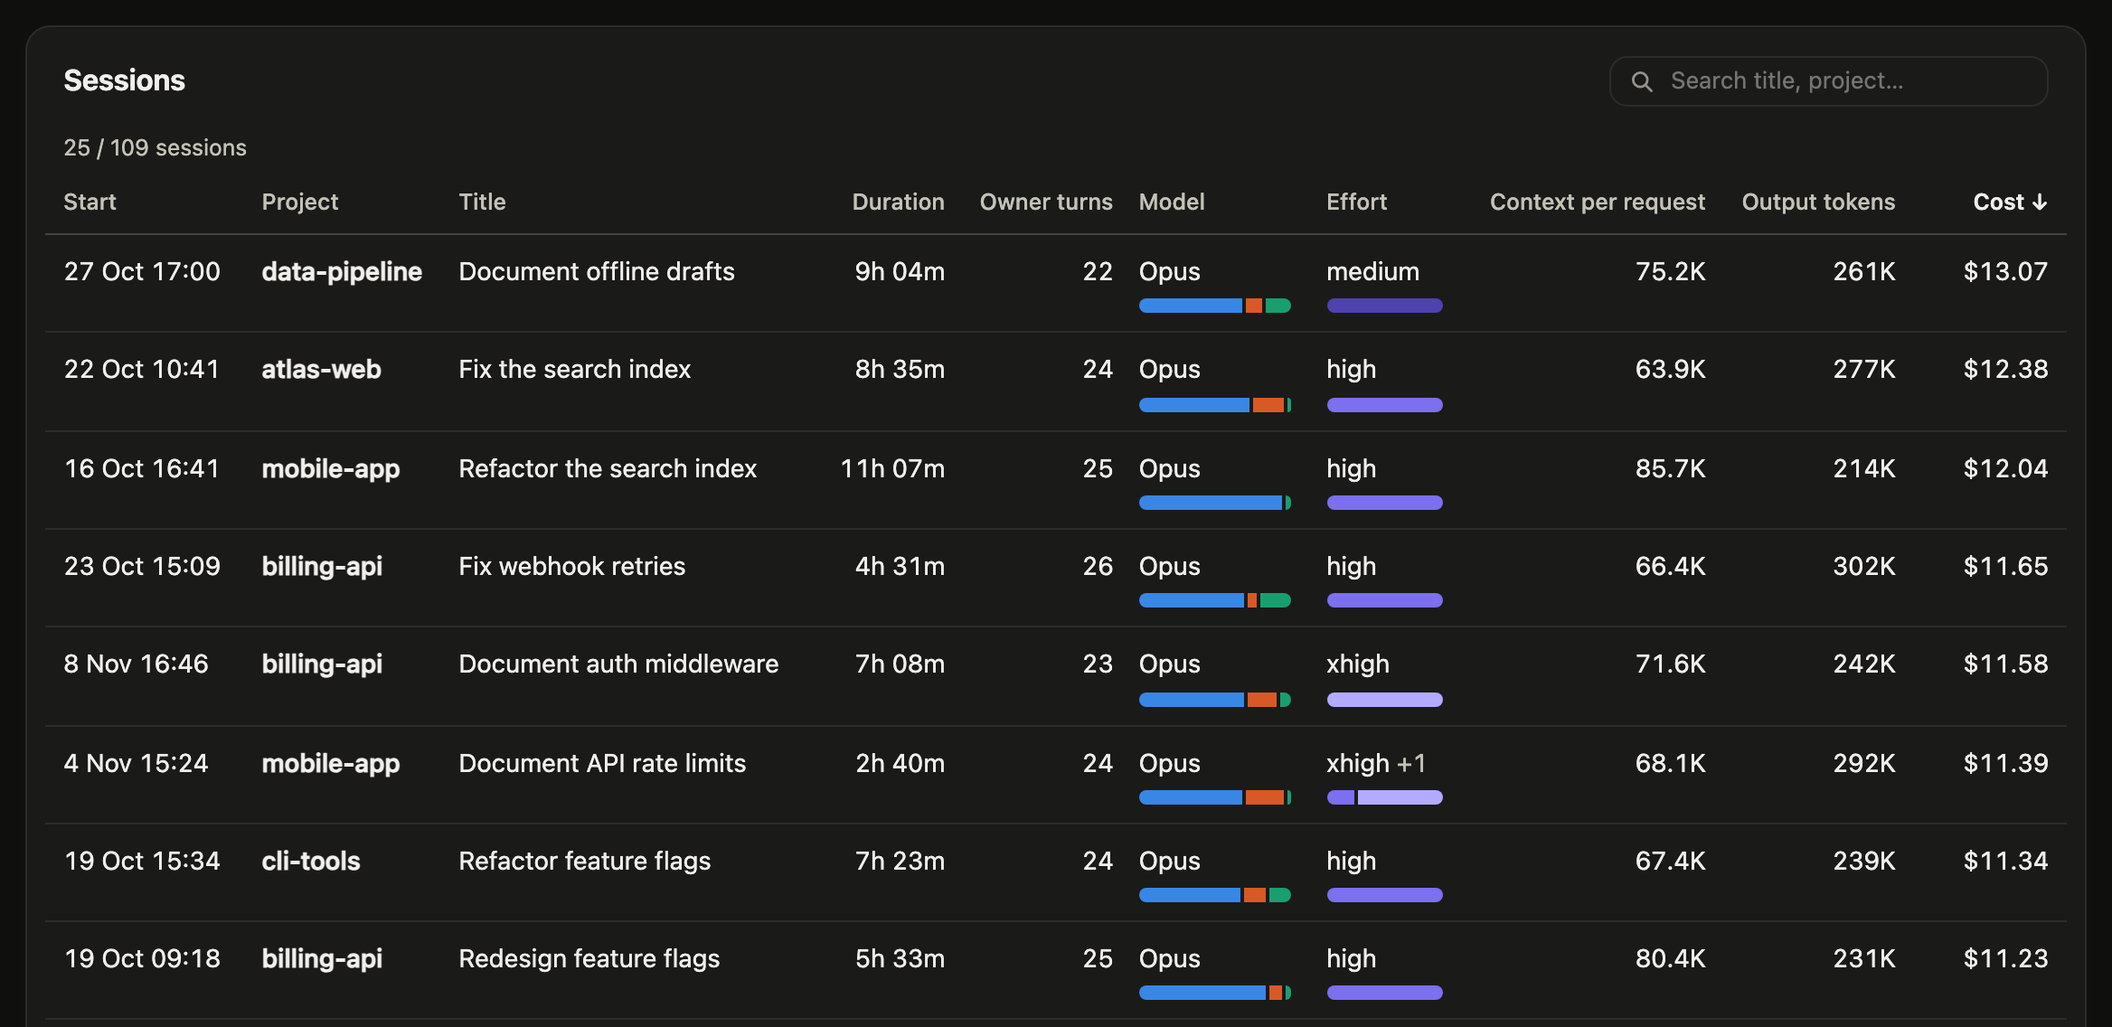
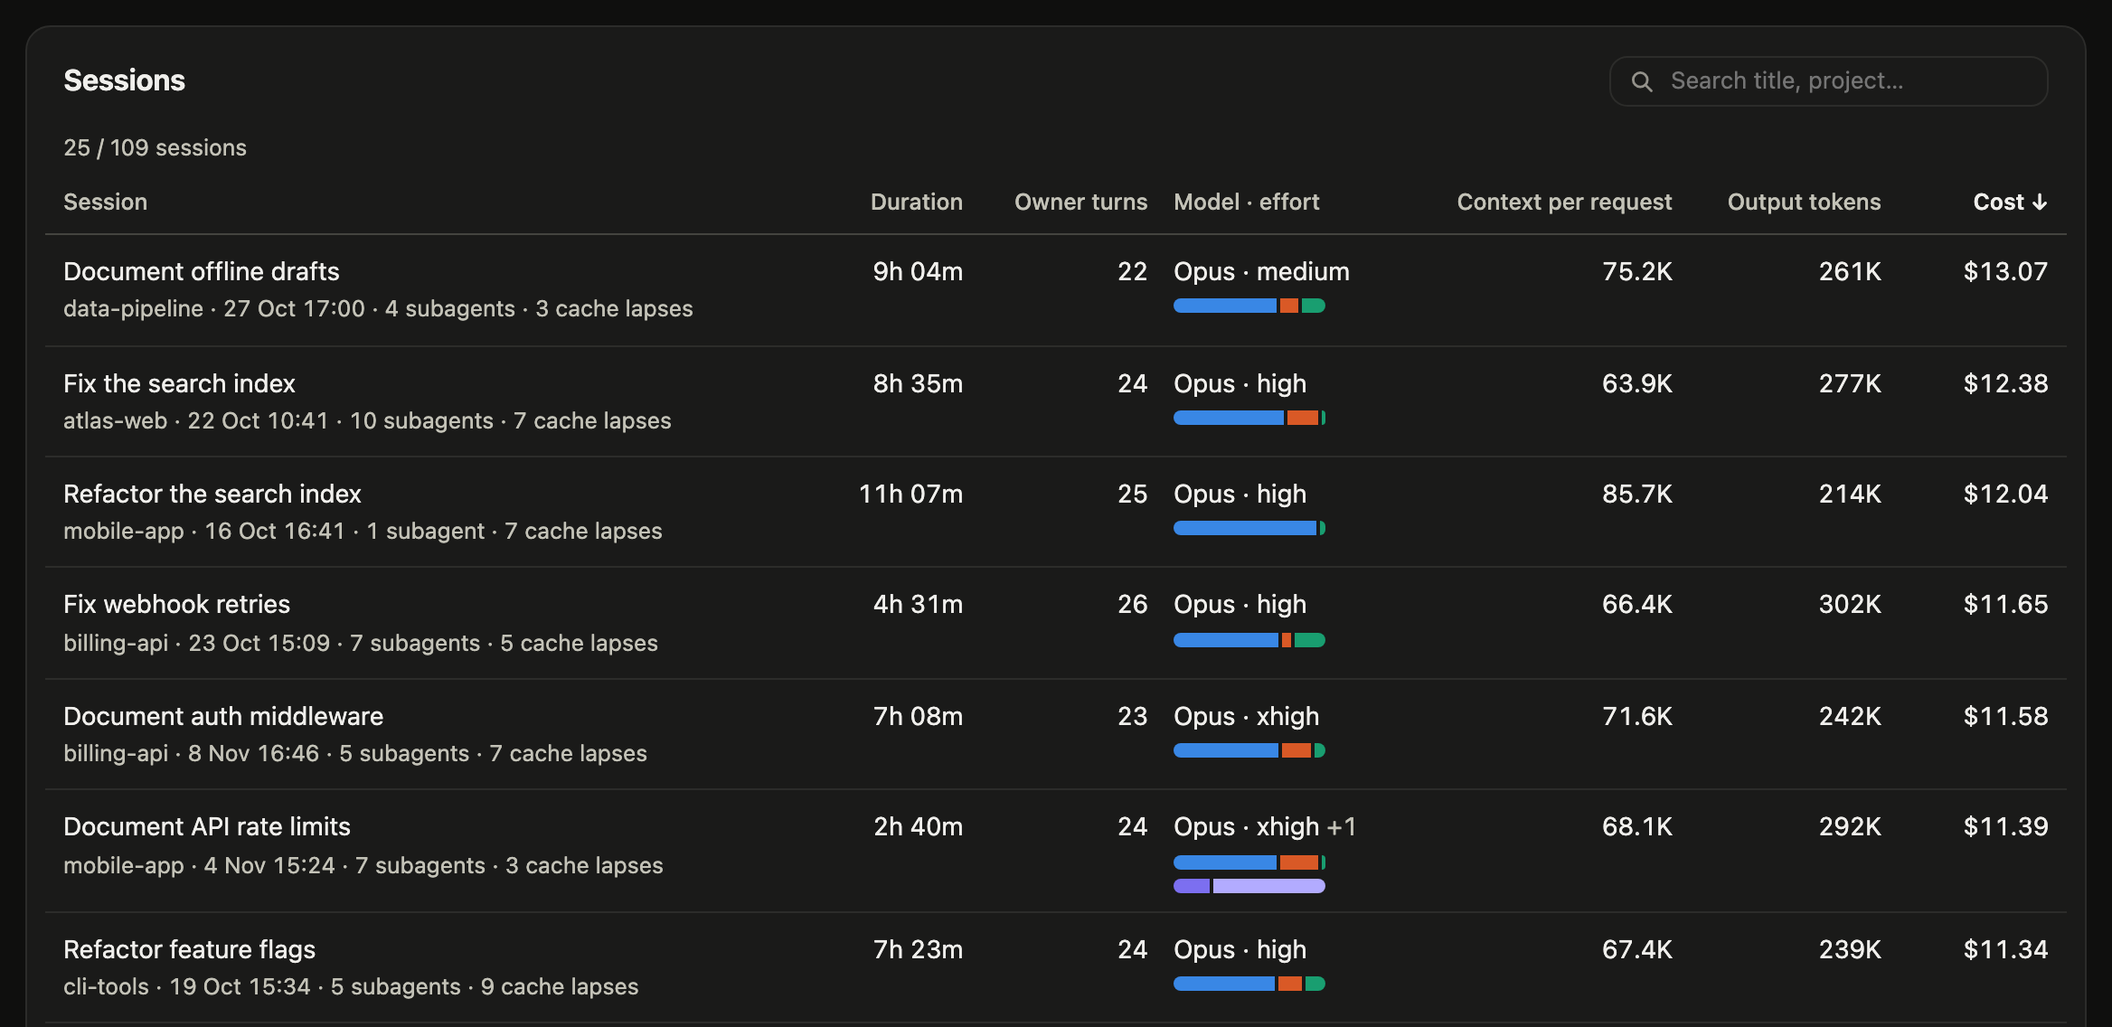
feat(dashboard): fit the Sessions table without horizontal scroll
Seven columns instead of thirteen. The session cell holds the title,
then project, start and any subagents or cache lapses. Model and effort
share a column, and their bars show only when a session mixed models or
changed effort. A one-day window shows only the start time.

Closes #10

diff --git a/dashboard/src/i18n.tsx b/dashboard/src/i18n.tsx
@@ -8,7 +8,7 @@ export const T = {
     requests: "Request", input: "Input", thinking: "Thinking", cacheRead: "Cache đọc", cacheWrite: "Cache ghi", share: "Tỷ trọng", allEfforts: "Mọi effort", effShare: "Mỗi mức effort chiếm bao nhiêu", leadMore: (n: string, q: string, c: string) => <><b>{n}</b> chiếm {q} số request nhưng tới <b>{c}</b> chi phí.</>, leadLess: (n: string, q: string, c: string) => <><b>{n}</b> chiếm {q} số request và chỉ {c} chi phí.</>, price: "Output mỗi request theo mức effort", perReq: "/ request", costShare: "Tỷ trọng chi phí", subEffort: "Effort của subagent", switches: "Các phiên đã đổi effort", nSwitch: "Lần đổi", effort: "Effort", subTypes: "Subagent theo loại", count: "Số lần", ranOn: "Chạy trên",
     rebuilt: "Cache bị dựng lại", rbIdle: "Sau khi nghỉ", rbCompaction: "Khi nén context", rbOther: "Khác", rbStart: "Đầu phiên", rbIdleTip: "quay lại sau khi cache hết hạn (5 phút, hoặc 1 giờ nếu dùng cache 1h). Đây là phần tránh được.", rbCompactionTip: "context vừa được nén nên phải ghi lại.", rbOtherTip: "phần đầu prompt đổi mà transcript không cho biết lý do.", rbStartTip: "request đầu của phiên hoặc subagent, không tránh được.",
     rbInfo: "Mỗi request đọc lại cuộc trò chuyện từ prompt cache với giá rẻ. Khi cache mất, request đó phải ghi lại gần hết context vào cache, đắt gấp 25–40 lần đọc. Bảng đếm các lần ghi lại theo nguyên nhân; chi phí thêm là phần trả hơn so với chỉ đọc.", howToRead: "Cách đọc",
-    rbTokens: "Token ghi lại", rbExtra: "Chi phí thêm", gapShort: "5–15 phút", gapMid: "15–60 phút", gapLong: "Trên 1 giờ", idleGap: "Đã nghỉ bao lâu trước lần dựng lại", lapses: "Cache hết hạn",
+    rbTokens: "Token ghi lại", rbExtra: "Chi phí thêm", gapShort: "5–15 phút", gapMid: "15–60 phút", gapLong: "Trên 1 giờ", idleGap: "Đã nghỉ bao lâu trước lần dựng lại", lapses: "Cache hết hạn", session: "Phiên", modelEffort: "Model · effort", nSubs: (n: number) => `${n} subagent`, nLapses: (n: number) => `${n} lần cache hết hạn`,
     tools: "Công cụ được gọi", calls: "lượt", skills: "Skill được dùng", uses: "lượt", skillCount: "skill", skillTyped: "Gõ lệnh /", skillAgent: "Agent tự gọi", lastUsed: "Dùng gần nhất", showFewer: "Thu gọn", srcProject: "Project", srcPersonal: "Cá nhân", srcPlugin: "Plugin", srcBuiltin: "Có sẵn", srcOther: "Khác", errors: "lỗi", time: "Thời gian agent làm việc", linesAR: "Dòng code thêm / xoá", api: "Chờ model", tool: "Chạy công cụ", idle: "Chờ owner, nghỉ", lines: "Dòng code thêm và xoá", added: "Thêm", removed: "Xoá", compactions: "Lần nén context", ownerTurns: "Lượt owner",
     lastActive: "Lần cuối", whereMoney: "Tiền đi vào model nào", ctxPerReq: "Context / request", costKinds: "Chi phí gồm", kRead: "Đọc context", kWrite: "Ghi cache", kOut: "Output", kRest: "Không tách được", splitModel: "Theo model", splitKind: "Theo loại chi phí", costByKind: "Chi phí theo loại", figures: "Bảng số liệu", mainVsSub: "Luồng chính và subagent", mainThread: "Luồng chính", routedTitle: "Subagent chạy trên model nào", spawnedOn: (p: string, m: string) => `${p} → ${m}`, costNotes: "Chi phí chưa chắc chắn", stUnknown: "không có bản ghi", stPartial: "chưa đủ", stEst: "ước tính", moreSess: (n: number) => `và ${n} phiên khác`, priceOff: (n: string, d: string) => `lệch bảng giá ở ${n} phiên, từ ${d}`, noPrice: "chưa có giá", costPerSess: "Chi phí mỗi phiên", avgDur: "Thời lượng mỗi phiên", turnsPerSess: "Lượt owner mỗi phiên", compactPerSess: "Nén context mỗi phiên", costPerKLines: "Chi phí mỗi 1.000 dòng code", allProj: "Mọi dự án", shareBy: "Phần của mỗi dự án",
     nodata: "Không có dữ liệu trong khoảng lọc này.", wd: ["T2", "T3", "T4", "T5", "T6", "T7", "CN"], wdShort: ["T2", "T3", "T4", "T5", "T6", "T7", "CN"], theme: "Đổi sáng/tối",
@@ -22,7 +22,7 @@ export const T = {
     requests: "Requests", input: "Input", thinking: "Thinking", cacheRead: "Cache read", cacheWrite: "Cache write", share: "Share", allEfforts: "All efforts", effShare: "How much each effort level takes", leadMore: (n: string, q: string, c: string) => <><b>{n}</b> is {q} of requests but <b>{c}</b> of cost.</>, leadLess: (n: string, q: string, c: string) => <><b>{n}</b> is {q} of requests and only {c} of cost.</>, price: "Output per request by effort level", perReq: "/ request", costShare: "Share of cost", subEffort: "Subagent effort", switches: "Sessions that changed effort", nSwitch: "Changes", effort: "Effort", subTypes: "Subagents by type", count: "Count", ranOn: "Ran on",
     rebuilt: "Cache rebuilt", rbIdle: "After idle", rbCompaction: "At compaction", rbOther: "Other", rbStart: "At session start", rbIdleTip: "returned after the cache expired (5 minutes, or 1 hour with 1h cache). The avoidable part.", rbCompactionTip: "the context was just compacted.", rbOtherTip: "the start of the prompt changed for a reason the transcript does not show.", rbStartTip: "the first request of a session or subagent, unavoidable.",
     rbInfo: "Each request rereads the conversation from the prompt cache at a low price. When the cache is gone, the request writes most of the context into it again, at 25–40 times the read price. The table counts these rewrites by cause; extra cost is what they cost beyond a read.", howToRead: "How to read",
-    rbTokens: "Rewritten tokens", rbExtra: "Extra cost", gapShort: "5–15 min", gapMid: "15–60 min", gapLong: "Over 1 h", idleGap: "Idle time before the rebuild", lapses: "Cache lapses",
+    rbTokens: "Rewritten tokens", rbExtra: "Extra cost", gapShort: "5–15 min", gapMid: "15–60 min", gapLong: "Over 1 h", idleGap: "Idle time before the rebuild", lapses: "Cache lapses", session: "Session", modelEffort: "Model · effort", nSubs: (n: number) => `${n} subagent${n === 1 ? "" : "s"}`, nLapses: (n: number) => `${n} cache lapse${n === 1 ? "" : "s"}`,
     tools: "Tool calls", calls: "calls", skills: "Skills used", uses: "uses", skillCount: "skills", skillTyped: "Typed as /command", skillAgent: "Called by the agent", lastUsed: "Last used", showFewer: "Show fewer", srcProject: "Project", srcPersonal: "Personal", srcPlugin: "Plugin", srcBuiltin: "Built-in", srcOther: "Other", errors: "errors", time: "Agent working time", linesAR: "Lines added / removed", api: "Waiting for the model", tool: "Running tools", idle: "Idle, waiting for the owner", lines: "Lines added and removed", added: "Added", removed: "Removed", compactions: "Compactions", ownerTurns: "Owner turns",
     lastActive: "Last active", whereMoney: "Which model the money goes to", ctxPerReq: "Context per request", costKinds: "Cost made of", kRead: "Reading context", kWrite: "Cache writes", kOut: "Output", kRest: "Not split", splitModel: "By model", splitKind: "By cost kind", costByKind: "Cost by kind", figures: "Figures", mainVsSub: "Main thread and subagents", mainThread: "Main thread", routedTitle: "Which model subagents ran on", spawnedOn: (p: string, m: string) => `${p} → ${m}`, costNotes: "Cost not certain", stUnknown: "no record", stPartial: "incomplete", stEst: "estimated", moreSess: (n: number) => `and ${n} more sessions`, priceOff: (n: string, d: string) => `off the price table in ${n} sessions since ${d}`, noPrice: "no price", costPerSess: "Cost per session", avgDur: "Length per session", turnsPerSess: "Owner turns per session", compactPerSess: "Compactions per session", costPerKLines: "Cost per 1,000 lines", allProj: "All projects", shareBy: "Each project's share",
     nodata: "No data in this filter range.", wd: ["Mon", "Tue", "Wed", "Thu", "Fri", "Sat", "Sun"], wdShort: ["Mo", "Tu", "We", "Th", "Fr", "Sa", "Su"], theme: "Toggle light/dark",

diff --git a/dashboard/src/views/Sessions.tsx b/dashboard/src/views/Sessions.tsx
@@ -5,44 +5,48 @@ import { Search } from "../controls/Search.tsx";
 import { CostCell, SessionMix, RunsStrip, Title } from "../ui.tsx";
 
 export function Sessions({ F }: { F: Fact[] }) {
-  const { M, S, t, f, set, limit, more } = useDash();
+  const { M, S, t, L, f, filter, set, limit, more } = useDash();
   const SORT: Record<SortKey, (r: SessionRow) => string | number> = {
-    start: (r) => r.x.day + String(r.x.hour).padStart(2, "0") + String(r.x.min).padStart(2, "0"), project: (r) => M.projects[r.x.p].toLowerCase(),
-    dur: (r) => r.x.dur, turns: (r) => r.x.owner, out: (r) => r.o, cost: (r) => r.c, tps: (r) => r.x.out / r.x.api, subs: (r) => r.x.subs.length, lapses: (r) => r.lapses, ctx: (r) => r.ctx,
+    start: (r) => r.x.day + String(r.x.hour).padStart(2, "0") + String(r.x.min).padStart(2, "0"),
+    dur: (r) => r.x.dur, turns: (r) => r.x.owner, out: (r) => r.o, cost: (r) => r.c, ctx: (r) => r.ctx,
   };
   const q = S.q.trim().toLowerCase();
   const rows = sessionRows(M, F).filter((r) => !q || (r.x.title + " " + M.projects[r.x.p]).toLowerCase().includes(q));
   const key = SORT[S.sort];
   rows.sort((a, b) => (key(a) < key(b) ? -1 : key(a) > key(b) ? 1 : 0) * S.dir);
-  const sort = (k: SortKey) => set(S.sort === k ? { dir: S.dir === 1 ? -1 : 1 } : { sort: k, dir: k === "project" ? 1 : -1 });
+  const sort = (k: SortKey) => set(S.sort === k ? { dir: S.dir === 1 ? -1 : 1 } : { sort: k, dir: -1 });
   const th = (k: SortKey, label: string, cls = "") => (
     <th className={cls} aria-sort={S.sort === k ? (S.dir > 0 ? "ascending" : "descending") : undefined}>
       <button onClick={() => sort(k)}>{label}{S.sort === k ? (S.dir > 0 ? " ↑" : " ↓") : ""}</button>
     </th>
   );
+  // A one-day window shows only the time each session started.
+  const when = (r: SessionRow) => filter.from === filter.to ? `${String(r.x.hour).padStart(2, "0")}:${String(r.x.min).padStart(2, "0")}` : f.startText(r.x);
   return (
     <section className="card">
       <header><h2>{t("sessions")}</h2><Search value={S.q} placeholder={t("search")} clearLabel={t("clear")} onChange={(q) => set({ q }, { replace: true })} /></header>
       <p className="hint" style={{ margin: "0 0 12px" }}>{f.int(Math.min(limit, rows.length))} / {f.int(rows.length)} {t("shown")}</p>
-      <div className="scroll"><table className="wraphead">
-        <thead><tr>{th("start", t("start"), "o1")}{th("project", t("project"), "o1")}<th>{t("title")}</th>{th("dur", t("dur"), "num o1")}{th("turns", t("turns"), "num o2")}<th className="o1">{t("model")}</th><th className="o2">{t("effort")}</th>{th("subs", t("subs"), "num o3")}{th("lapses", t("lapses"), "num o3")}{th("ctx", t("ctxPerReq"), "num o2")}{th("tps", t("tps"), "num o3")}{th("out", t("out"), "num")}{th("cost", t("cost"), "num")}</tr></thead>
+      <div className="scroll"><table className="wraphead sesstable">
+        <thead><tr>{th("start", t("session"))}{th("dur", t("dur"), "num o1")}{th("turns", t("turns"), "num o2")}<th className="o1">{t("modelEffort")}</th>{th("ctx", t("ctxPerReq"), "num o2")}{th("out", t("out"), "num")}{th("cost", t("cost"), "num")}</tr></thead>
         <tbody>{rows.length ? rows.slice(0, limit).map((r) => (
           <tr key={r.s}>
-            <td className="o1">{f.startText(r.x)}</td>
-            <th className="name o1">{M.projects[r.x.p]}</th>
-            <td><Title title={r.x.title} /><span className="sub ph">{f.startText(r.x)} · {M.projects[r.x.p]}</span></td>
+            <td>
+              <Title title={r.x.title} />
+              <span className="sub">{[M.projects[r.x.p], when(r), r.x.subs.length ? L.nSubs(r.x.subs.length) : "", r.lapses ? L.nLapses(r.lapses) : ""].filter(Boolean).map((p, k) => <span key={k}>{k ? " · " : ""}<span className="nw">{p}</span></span>)}</span>
+            </td>
             <td className="num o1">{f.dur(r.x.dur)}</td>
             <td className="num o2">{r.x.owner}</td>
-            <td className="o1">{M.models[r.x.parent] ?? ""}<SessionMix r={r} /></td>
-            <td className="o2">{r.x.runs.length ? <>{M.efforts[mainLevel(r.x.runs)]}{r.x.runs.length > 1 ? <> <span className="x1">+{r.x.runs.length - 1}</span></> : null}<RunsStrip runs={r.x.runs} /></> : "—"}</td>
-            <td className="num o3">{r.x.subs.length || "—"}</td>
-            <td className="num o3">{r.lapses || "—"}</td>
+            <td className="o1">
+              {M.models[r.x.parent] ?? ""}
+              {r.x.runs.length ? <> · {M.efforts[mainLevel(r.x.runs)]}{r.x.runs.length > 1 ? <> <span className="x1">+{r.x.runs.length - 1}</span></> : null}</> : null}
+              <SessionMix r={r} />
+              {r.x.runs.length > 1 ? <RunsStrip runs={r.x.runs} /> : null}
+            </td>
             <td className="num o2">{r.q ? f.cmp(r.ctx) : "—"}</td>
-            <td className="num o3">{r.x.api ? f.int(r.x.out / r.x.api) : "—"}</td>
             <td className="num">{f.cmp(r.o)}</td>
             <td className="num"><CostCell r={r} /></td>
           </tr>
-        )) : <tr><td colSpan={13} className="empty">{t("nodata")}</td></tr>}</tbody>
+        )) : <tr><td colSpan={7} className="empty">{t("nodata")}</td></tr>}</tbody>
       </table></div>
       {rows.length > limit ? <p style={{ margin: "14px 0 0" }}><button className="link" onClick={more}>{t("more")}</button></p> : null}
     </section>

diff --git a/dashboard/src/ui.tsx b/dashboard/src/ui.tsx
@@ -175,6 +175,7 @@ export function Mix({ arr, className = "mix", style, tip: about }: { arr: number
 // A session's output tokens per model, the main thread and subagents apart, largest first.
 export function SessionMix({ r }: { r: SessionRow }) {
   const { M, t, f } = useDash();
+  if (r.mix.filter((v) => v > 0).length < 2) return null; // one model needs no bar
   const sum = r.mix.reduce((a, b) => a + b, 0) || 1;
   const parts = r.mix.flatMap((v, k) => [{ k, n: v - r.subMix[k], who: t("mainThread") }, { k, n: r.subMix[k], who: t("subs") }]).filter((p) => p.n > 0);
   parts.sort((a, b) => b.n - a.n);
@@ -186,7 +187,7 @@ export function RunsStrip({ runs, wide }: { runs: Run[]; wide?: boolean }) {
   const { M, t, f } = useDash();
   const sum = runs.reduce((n, r) => n + r[1], 0) || 1;
   return (
-    <span className={`mix${wide ? " wide" : ""}`} style={{ width: wide ? 160 : 64 }} data-tip={tip(t("effort"), runs.map(([e, q]): TipRow => ["v" + e, M.efforts[e], f.int(q) + " " + t("requests").toLowerCase()]))}>
+    <span className={`mix${wide ? " wide" : ""}`} style={wide ? { width: 160 } : undefined} data-tip={tip(t("effort"), runs.map(([e, q]): TipRow => ["v" + e, M.efforts[e], f.int(q) + " " + t("requests").toLowerCase()]))}>
       {runs.map(([e, q], k) => <i key={k} className={`v${e}`} style={{ width: `${(q / sum) * 100}%` }} />)}
     </span>
   );

diff --git a/dashboard/src/state.test.ts b/dashboard/src/state.test.ts
@@ -9,7 +9,7 @@ test("the address bar holds the view and every filter, and reads back the same",
     [{}, "/"],
     [{ view: "sessions", range: "7" }, "/sessions?range=7"],
     [{ view: "effort", range: "", from: "2026-11-01", to: "2026-11-03", project: "alpha", model: "Opus", effort: "xhigh", metric: "cost" }, "/effort?from=2026-11-01&to=2026-11-03&project=alpha&model=Opus&effort=xhigh&metric=cost"],
-    [{ view: "sessions", sort: "project", dir: 1, q: "cda fix" }, "/sessions?q=cda+fix&sort=project&dir=asc"],
+    [{ view: "sessions", sort: "turns", dir: 1, q: "cda fix" }, "/sessions?q=cda+fix&sort=turns&dir=asc"],
     [{ view: "activity", range: "all" }, "/activity?range=all"],
     [{ metric: "cost", split: "kind", heat: "out" }, "/?metric=cost&split=kind&heat=out"],
   ];

diff --git a/dashboard/src/styles.css b/dashboard/src/styles.css
@@ -149,6 +149,7 @@ thead th[aria-sort] button { color: var(--ink); font-weight: 600; }
 .ph { display: none !important; }
 .sub { display: block; margin-top: 2px; color: var(--ink2); font-size: 12.5px; font-weight: 400; }
 .title { min-width: 140px; max-width: 260px; overflow: hidden; white-space: normal; display: -webkit-box; -webkit-box-orient: vertical; -webkit-line-clamp: 2; }
+.sesstable .title, .sesstable td .sub { max-width: 460px; white-space: normal; } .sesstable .nw { white-space: nowrap; }
 tbody tr.go { cursor: pointer; }
 tbody tr.go:hover td, tbody tr.go:hover th { background: var(--wash); }
 .mix { display: flex; gap: 2px; width: 84px; height: 8px; margin-top: 5px; }

diff --git a/dashboard/src/model.test.ts b/dashboard/src/model.test.ts
@@ -15,8 +15,9 @@ test("rebuilds sums the facts' vectors per cause and splits the idle ones by gap
   assert.equal(rebuilds([]).idle.n, 0);
 });
 
-test("the cache lapses column is a sort key of the address bar", () => {
-  assert.equal(parseUrl("/sessions", "sort=lapses").sort, "lapses");
+test("a sort the sessions table has no column for falls back to the start", () => {
+  for (const k of ["project", "tps", "subs", "lapses"]) assert.equal(parseUrl("/sessions", `sort=${k}`).sort, "start");
+  assert.equal(parseUrl("/sessions", "sort=ctx").sort, "ctx");
 });
 
 test("skillUses sums sessions per skill, listed by source and then most used", () => {

diff --git a/dashboard/src/state.ts b/dashboard/src/state.ts
@@ -6,7 +6,7 @@ export const VIEWS = ["overview", "projects", "sessions", "models", "effort", "a
 // A built-in view, or the id of one a host package adds.
 export type View = string;
 export const RANGES = ["1", "7", "14", "30", "all"] as const;
-export const SORTS = ["start", "project", "dur", "turns", "out", "cost", "tps", "subs", "lapses", "ctx"] as const;
+export const SORTS = ["start", "dur", "turns", "out", "cost", "ctx"] as const;
 export type SortKey = (typeof SORTS)[number];
 
 export type UrlState = {

diff --git a/README_VI.md b/README_VI.md
@@ -132,7 +132,7 @@ Claude Code giữ cuộc trò chuyện trong prompt cache, nên phần lớn inp
 | Sau khi nghỉ | Khoảng cách từ request trước của luồng dài hơn tuổi thọ của cache: 1 giờ nếu lần ghi cache gần nhất của luồng có cache 1h, nếu không thì 5 phút. Chia thành 5 đến 15 phút, 15 đến 60 phút và trên 1 giờ |
 | Khác | Mọi trường hợp còn lại |
 
-Chi phí thêm của một lần dựng lại là số token được ghi lại tính theo giá ghi cache (5m và 1h như đã ghi nhận) trừ đi chính số token đó tính theo giá đọc cache, theo dòng giá hiệu lực trong ngày. Cột "Cache hết hạn" ở màn hình Phiên làm việc đếm số lần dựng lại sau khi nghỉ trong mỗi phiên.
+Chi phí thêm của một lần dựng lại là số token được ghi lại tính theo giá ghi cache (5m và 1h như đã ghi nhận) trừ đi chính số token đó tính theo giá đọc cache, theo dòng giá hiệu lực trong ngày. Màn hình Phiên làm việc ghi số lần dựng lại sau khi nghỉ của mỗi phiên, là số lần cache hết hạn, dưới tiêu đề phiên.
 
 Không thể giải thích `khác` từ transcript. Ngưỡng 20.000 token và một nửa là quy ước cố định, không phải số Claude Code báo. Model không có dòng giá thì không có chi phí thêm, nhưng lần dựng lại vẫn được đếm.
 

diff --git a/README.md b/README.md
@@ -132,7 +132,7 @@ Claude Code keeps your conversation in a prompt cache, so most input tokens are 
 | After idle | The gap since the thread's previous request is longer than the cache lives: 1 hour if the thread's latest cache write included 1h cache, otherwise 5 minutes. Split into 5 to 15 minutes, 15 to 60 minutes and over an hour |
 | Other | Anything else |
 
-The extra cost of a rebuild is the rewritten tokens priced as cache writes (5m and 1h as recorded) minus the same tokens priced as reads, from the price row in force that day. The Sessions view's "Cache lapses" column counts the idle rebuilds in each session.
+The extra cost of a rebuild is the rewritten tokens priced as cache writes (5m and 1h as recorded) minus the same tokens priced as reads, from the price row in force that day. The Sessions view counts the idle rebuilds of each session as cache lapses, under its title.
 
 `other` cannot be explained from transcripts. The 20,000-token and one-half thresholds are a fixed convention, not something Claude Code reports. A model without a price row has no extra cost, and its rebuilds are counted without one.
 
